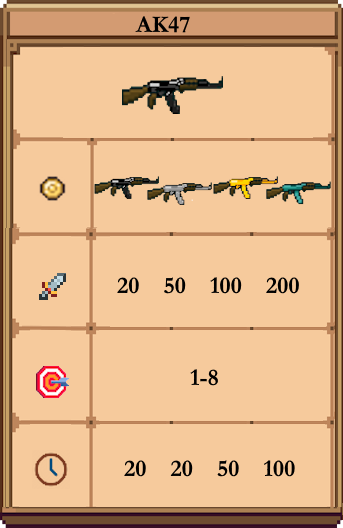
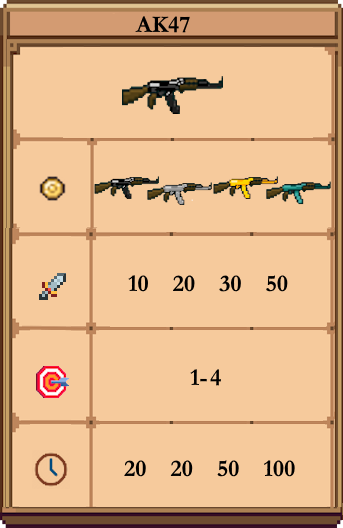
gnagnagna

diff --git a/src/components/items/throw_dagger.py b/src/components/items/throw_dagger.py
@@ -5,10 +5,10 @@ from path import ASSETS_DIR
 from src.components.animations.dagger_animation import DaggerAnimation
 
 class ThrowableDager(Item):
-    COMMON_DAGGER = ("Common Dagger", pygame.image.load(ASSETS_DIR / "dagger.png").convert_alpha(), 4, [1,3], DaggerAnimation)
-    RARE_DAGGER = ("Common Dagger", pygame.image.load(ASSETS_DIR / "dagger.png").convert_alpha(), 7, [1,4], DaggerAnimation)
-    EPIC_DAGGER = ("Common Dagger", pygame.image.load(ASSETS_DIR / "dagger.png").convert_alpha(), 10, [1,4], DaggerAnimation)
-    LEGENDARY_DAGGER = ("Common Dagger", pygame.image.load(ASSETS_DIR / "dagger.png").convert_alpha(), 20, [1,5], DaggerAnimation)
+    COMMON_DAGGER = ("Common Dagger", pygame.image.load(ASSETS_DIR / "dagger.png").convert_alpha(), 10, [1,5], DaggerAnimation)
+    RARE_DAGGER = ("Rare Dagger", pygame.image.load(ASSETS_DIR / "dagger.png").convert_alpha(),20, [1,5], DaggerAnimation)
+    EPIC_DAGGER = ("Epic Dagger", pygame.image.load(ASSETS_DIR / "dagger.png").convert_alpha(), 30, [1,5], DaggerAnimation)
+    LEGENDARY_DAGGER = ("Epic Dagger", pygame.image.load(ASSETS_DIR / "dagger.png").convert_alpha(), 50, [1,5], DaggerAnimation)
     LIST = [COMMON_DAGGER, RARE_DAGGER, EPIC_DAGGER, LEGENDARY_DAGGER]
     def __init__(self, name, image, damage, range, animation = None):
         super().__init__()

diff --git a/src/components/items/wand.py b/src/components/items/wand.py
@@ -11,11 +11,11 @@ class Wand(Item):
     silver_wand = pygame.image.load(WEAPON_DIR / "silver_wand.png").convert_alpha()
     golden_wand = pygame.image.load(WEAPON_DIR / "golden_wand.png").convert_alpha()
     diamond_wand = pygame.image.load(WEAPON_DIR / "diamond_wand.png").convert_alpha()
-    VAMPIRE_WAND = ("Vampire's wand", IMAGE, 5, 30 ,vec(1,5), 0, FireballAnimation)
-    COMMUNE_WAND =("Harry Potter's wand", IMAGE, 5, 30 ,vec(1,5), 25, FireballAnimation)
-    RARE_WAND =("Hermione's wand", silver_wand, 10, 50 ,vec(1,3), 30,FireballAnimation)
+    VAMPIRE_WAND = ("Vampire's wand", IMAGE, 8, 30 ,vec(1,4), 0, FireballAnimation)
+    COMMUNE_WAND =("Harry Potter's wand", IMAGE, 5, 30 ,vec(1,4), 25, FireballAnimation)
+    RARE_WAND =("Hermione's wand", silver_wand, 10, 50 ,vec(1,4), 30,FireballAnimation)
     EPIC_WAND =("APAGNAN's wand", golden_wand, 20, 50 ,vec(1,4), 40,FireballAnimation)
-    LEGENDARY_WAND =("CROPINOU's wand",diamond_wand, 50, 100, vec(1,5), 50,FireballAnimation)
+    LEGENDARY_WAND =("CROPINOU's wand",diamond_wand, 50, 100, vec(1,4), 50,FireballAnimation)
     LIST=[COMMUNE_WAND,RARE_WAND,EPIC_WAND,LEGENDARY_WAND]
 
     def __init__(self,name,image,damage,durability,range,mana,animation = None):

diff --git a/src/components/entities/monster.py b/src/components/entities/monster.py
@@ -4,7 +4,8 @@ from path import ASSETS_DIR
 from src.components.entities.entity import Entity
 from src.components.items.sword import Sword
 from src.components.items.wand import Wand
-
+from src.components.items.bow import Bow
+from src.components.items.ak47 import Ak
 
 vec=pygame.math.Vector2
 
@@ -39,7 +40,7 @@ class Monster(Entity):
     BOO = ("Boo",
              20,
              1,
-             Wand(*Wand.EPIC_WAND),
+             Bow(*Bow.EPIC_BOW),
              [[pygame.image.load(ASSETS_DIR / ("entities/boo/face_boo_"+str(i+1)+".png")).convert_alpha() for i in range (4)],
               [pygame.image.load(ASSETS_DIR / ("entities/boo/face_boo_"+str(i+1)+".png")).convert_alpha() for i in range (4)]],
              15,
@@ -65,7 +66,7 @@ class Monster(Entity):
     WIZARD = ("Wizard",
                 60,
                 1,
-                Wand(*Wand.LEGENDARY_WAND),
+                Ak(*Ak.EPIC_AK),
                  [[pygame.image.load(ASSETS_DIR/("entities/wizard/face_wiz_"+ str(i+1)+ ".png")).convert_alpha() for i in range(4)],
                 [pygame.image.load(ASSETS_DIR/("entities/wizard/face_wiz_"+ str(i+1)+ ".png")).convert_alpha() for i in range(4)]],
                 50,

diff --git a/src/components/UI/inventory.py b/src/components/UI/inventory.py
@@ -12,6 +12,7 @@ from src.components.items.armor import Armor
 from src.components.items.ak47 import Ak
 from src.components.items.rocket_launcher import Rocket_launcher
 from src.components.items.sword import Sword
+from src.components.items.throw_dagger import ThrowableDager
 
 vec = pygame.math.Vector2
 
@@ -382,7 +383,7 @@ class InventoryUI:
     #Draw the information of the select item
     def draw_select_information(self, SCREEN):
         if(self.select_item != None):
-            if(isinstance(self.select_item, (Bow, Sword, Wand,Ak,Rocket_launcher))):
+            if(isinstance(self.select_item, (Bow, Sword, Wand,Ak,Rocket_launcher,ThrowableDager))):
                 SCREEN.blit(self.font2.render("Description : " + str(self.select_item.description),True,(255, 255, 255)), vec(self.inventory_rect.topleft)+vec(330,334))
                 SCREEN.blit(self.font2.render("Damage : " + str(self.select_item.damage),True,(255, 255, 255)), vec(self.inventory_rect.topleft)+vec(330,363))
                 SCREEN.blit(self.font2.render("Durability : " + str(self.select_item.durability),True,(255, 255, 255)), vec(self.inventory_rect.topleft)+vec(330,392))

diff --git a/src/components/items/ak47.py b/src/components/items/ak47.py
@@ -14,10 +14,10 @@ class Ak(Item):
     bluegem_ak = pygame.image.load(WEAPON_DIR / "bluegem_ak.png").convert_alpha()
 
     #SKELETON_AK =("timothée's ak",IMAGE, 20, 200, vec(1,1),FireShotAnimation)
-    COMMUNE_AK = ("Marseille ak", classic_ak, 20, 50, vec(1,8),FireShotAnimation)
-    RARE_AK = ("terrorist ak", silver_ak, 50, 20, vec(1,8),FireShotAnimation)
-    EPIC_AK = ("quiet kid's ak", golden_ak, 100, 50, vec(1,8),FireShotAnimation)
-    LEGENDARY_AK = ("Iran ak", bluegem_ak, 200, 100, vec(1,8),FireShotAnimation)
+    COMMUNE_AK = ("Marseille ak", classic_ak, 10, 50, vec(1,4),FireShotAnimation)
+    RARE_AK = ("terrorist ak", silver_ak, 20, 20, vec(1,4),FireShotAnimation)
+    EPIC_AK = ("quiet kid's ak", golden_ak, 30, 50, vec(1,4),FireShotAnimation)
+    LEGENDARY_AK = ("Iran ak", bluegem_ak, 50, 100, vec(1,4),FireShotAnimation)
     LIST = [COMMUNE_AK,RARE_AK,EPIC_AK,LEGENDARY_AK]
     
     def __init__(self, name, image, damage, durability, range, animation = None):

diff --git a/src/components/items/bow.py b/src/components/items/bow.py
@@ -12,10 +12,10 @@ class Bow(Item):
     golden_bow = pygame.image.load(WEAPON_DIR / "golden_bow.png").convert_alpha()
     diamond_bow = pygame.image.load(WEAPON_DIR / "diamond_bow.png").convert_alpha()
     ARCHER_BOW = ("Archer's bow", IMAGE, 2, 30 ,vec(1,4))
-    COMMUNE_BOW =("Everyday's bow", IMAGE, 5, 30 ,vec(1,6))
-    RARE_BOW =("David Bowie's bow", silver_bow, 10, 50 ,vec(1,6))
-    EPIC_BOW =("Bo bow", golden_bow, 20, 50 ,vec(1,6))
-    LEGENDARY_BOW =("Racist bow",diamond_bow, 40, 100, vec(1,7))
+    COMMUNE_BOW =("Everyday's bow", IMAGE, 5, 30 ,vec(2,5))
+    RARE_BOW =("David Bowie's bow", silver_bow, 10, 50 ,vec(2,5))
+    EPIC_BOW =("Bo bow", golden_bow, 20, 50 ,vec(2,5))
+    LEGENDARY_BOW =("Racist bow",diamond_bow, 40, 100, vec(2,5))
     LIST=[COMMUNE_BOW,RARE_BOW,EPIC_BOW,LEGENDARY_BOW]
     
     def __init__(self,name,image,damage,durability,range,animation = BowAnimation):

diff --git a/src/components/items/sword.py b/src/components/items/sword.py
@@ -12,7 +12,7 @@ class Sword(Item):
     golden_sword = pygame.image.load(WEAPON_DIR / "golden_sword.png").convert_alpha()
     diamond_sword = pygame.image.load(WEAPON_DIR / "diamond_sword.png").convert_alpha()
     SKELETON_SWORD =("Skeleton sword",IMAGE, 4, 200, vec(1,1),0, SlashAnimation)
-    COMMUNE_SWORD = ("Jesus sword", wood_sword, 8, 50, vec(1,1),10, SlashAnimation)
+    COMMUNE_SWORD = ("Jesus sword", wood_sword, 7, 50, vec(1,1),10, SlashAnimation)
     RARE_SWORD = ("SEXYSEB's sword", silver_sword, 15, 20, vec(1,1),10, SlashAnimation)
     EPIC_SWORD = ("Timozob' sword", golden_sword, 30, 50, vec(1,1),20, SlashAnimation)
     LEGENDARY_SWORD = ("3 FROMAGES' Sword", diamond_sword, 50, 100, vec(1,2),50, SlashAnimation)
